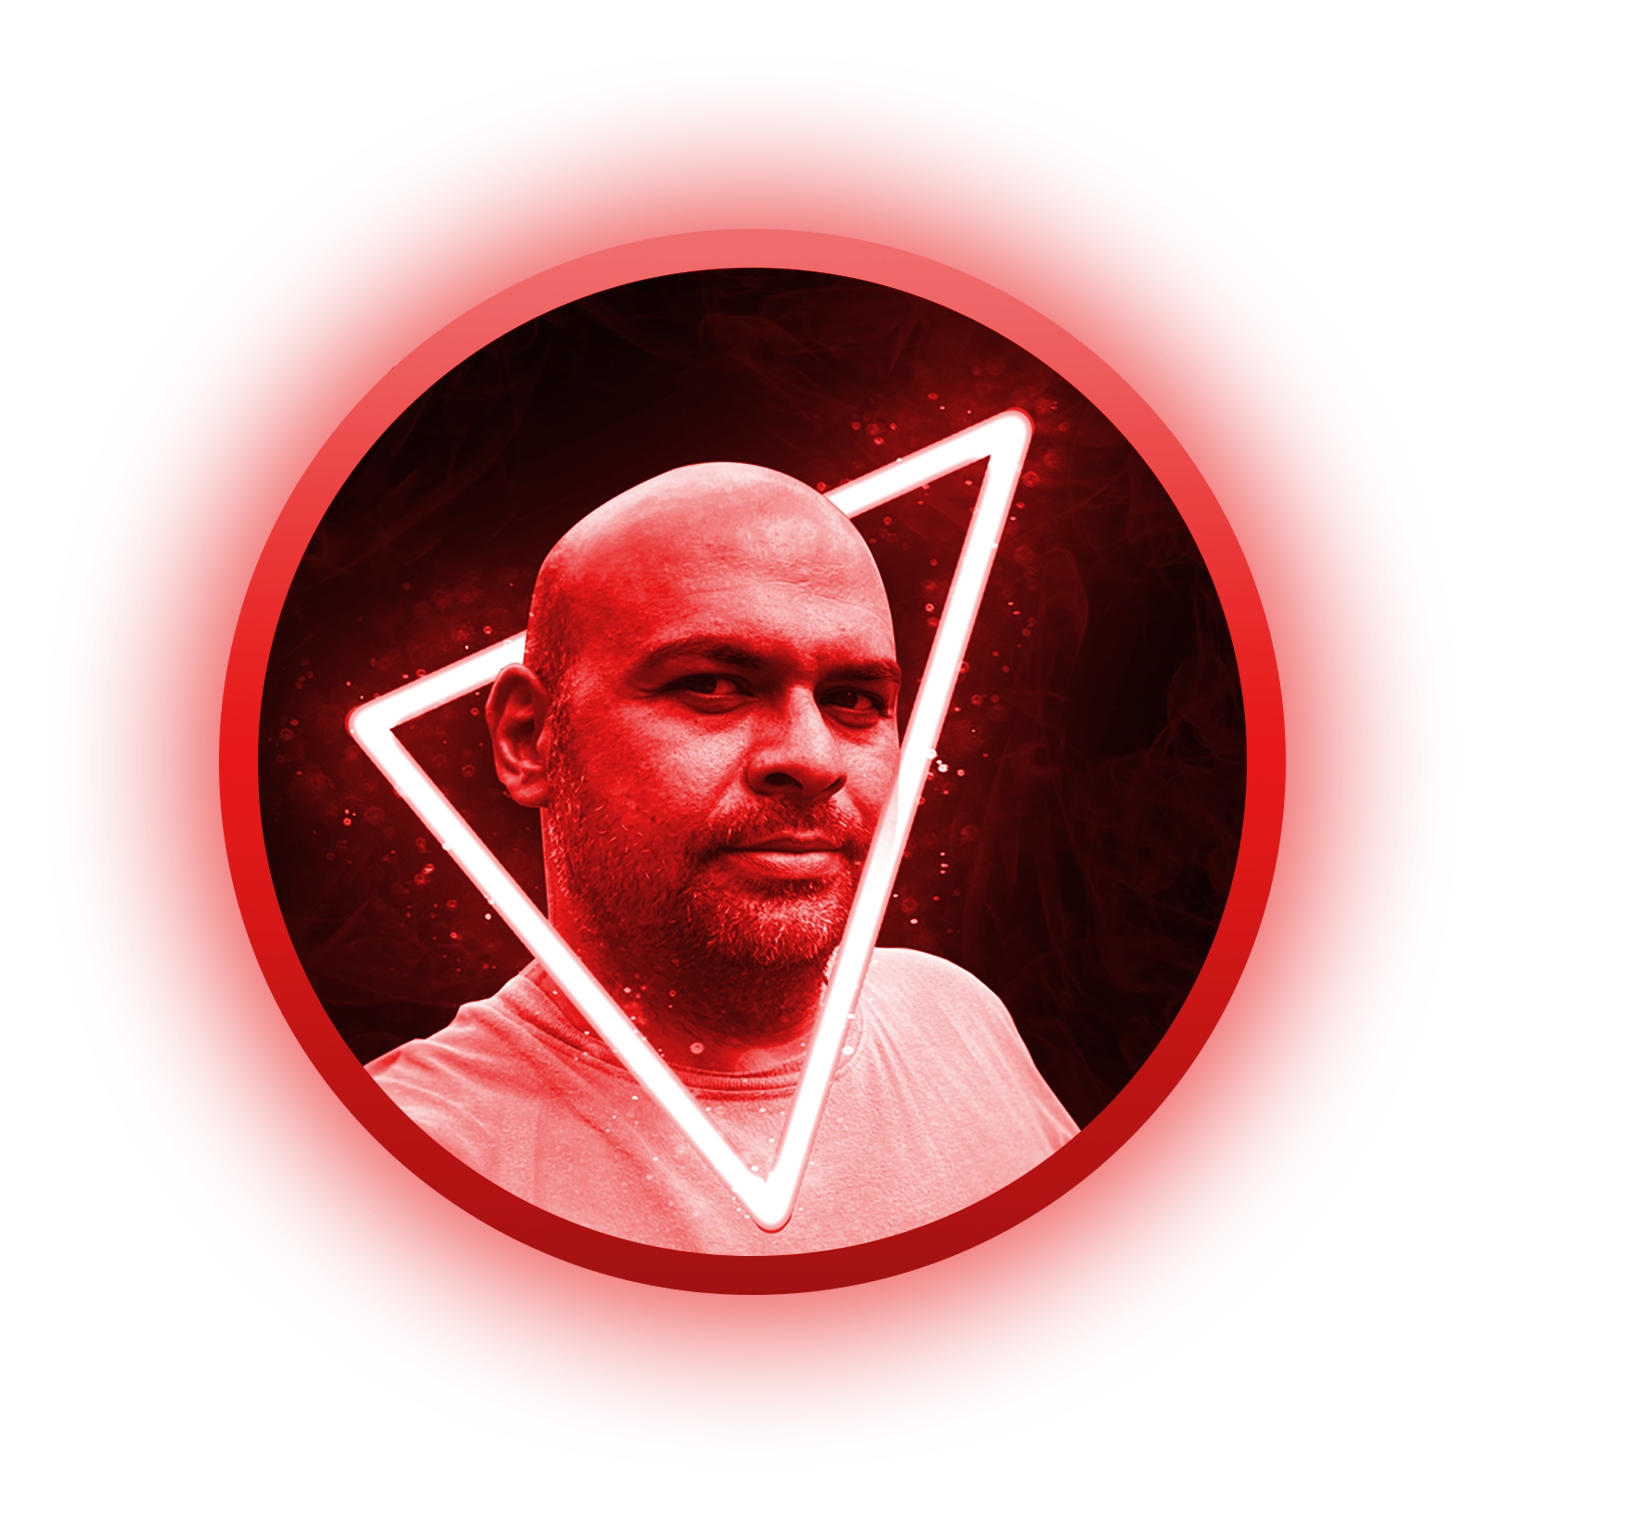
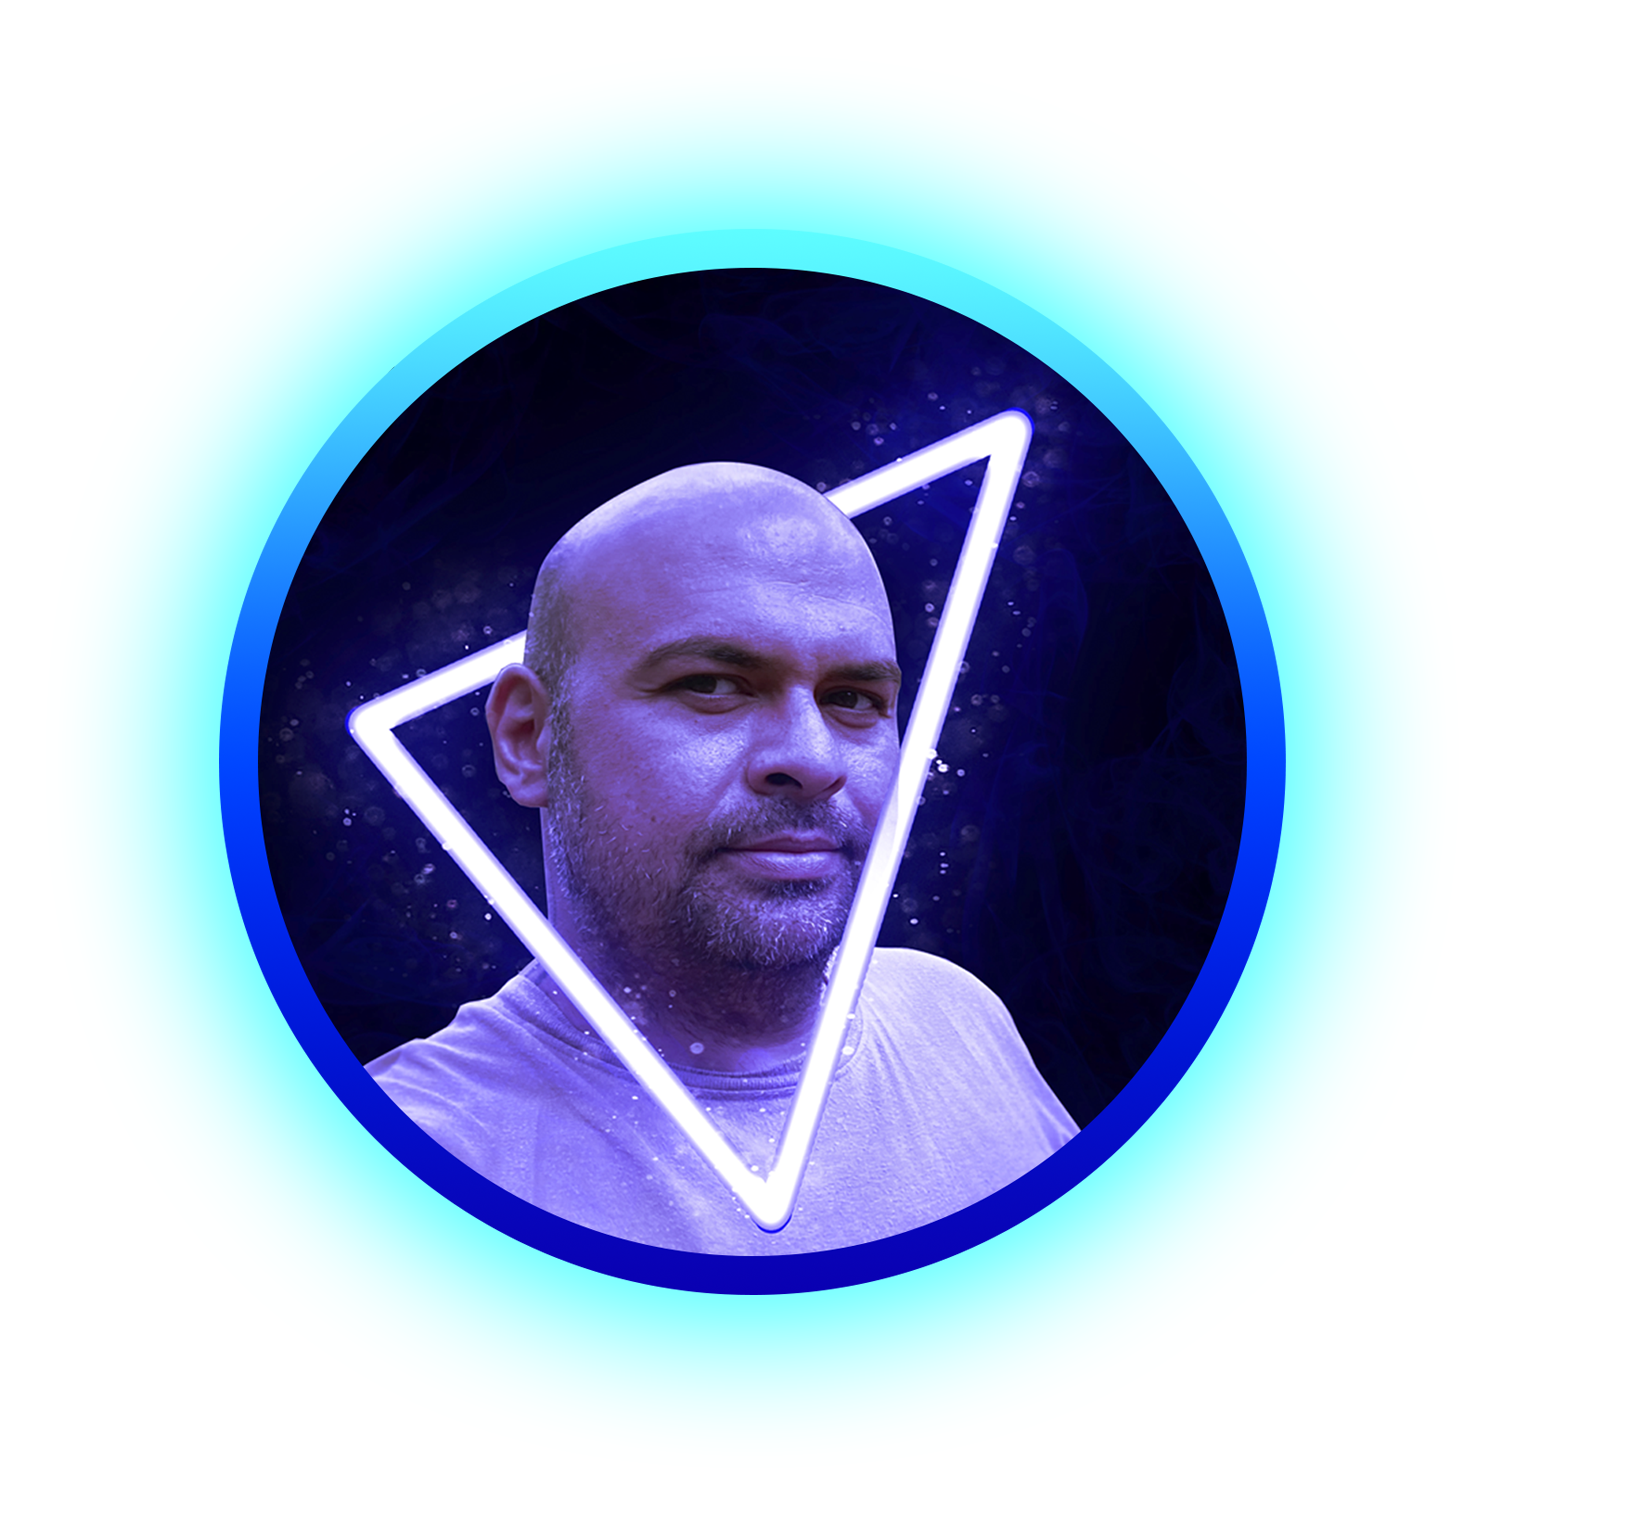
cambio color

diff --git a/style.css b/style.css
@@ -49,14 +49,14 @@ body {
     display: none;
     font-size: 25px;
     cursor: pointer;
-    color: #fff;
+    color: #000000;
 }
 
 
 .navbar a {
     display: inline-block;
     font-size: 25px;
-    color: #fff;
+    color: #ffffff;
     text-decoration: none;
     font-weight: 500;
     margin-left: 35px;
@@ -67,11 +67,11 @@ body {
 }
 
 .navbar a.active {
-    color:rgb(252, 1, 1);
+    color:rgba(6, 248, 228, 1);
 }
 
 .navbar a:hover {
-    color: rgb(252, 1, 1);
+    color: rgb(6, 248, 228, 1);
 }
 
 .home {
@@ -79,7 +79,7 @@ body {
     width: 100%;
     justify-content: space-between;
     height: 100vh;
-    background: url(./img/fondo3\ copia.png);
+    background: url(./img/fondo3.png);
     background-size: cover;
     background-position: center;
     display: flex;
@@ -102,7 +102,7 @@ body {
 }
 
 .home-content h3 span {
-    color: rgb(252, 1, 1);
+    color: rgb(6, 248, 228, 1);
     font-weight: 700;
 }
 
@@ -135,10 +135,10 @@ body {
     width: 40px;
     height: 40px;
     background: transparent;
-    border: 2px solid rgb(252, 1, 1);
+    border: 2px solid rgb(6, 248, 228, 1);
     border-radius: 50%;
     font-size: 20px;
-    color: rgb(252, 1, 1);
+    color: rgb(6, 248, 228, 1);
     text-decoration: none;
     transition: .5s ease;
     opacity: 0;
@@ -148,26 +148,26 @@ body {
 }
 
 .home-sci a:hover {
-    background: rgb(252, 1, 1);
+    background: rgb(6, 248, 228, 1);
     color: #000000;
-    box-shadow: 0 0 20px rgb(252, 1, 1);
+    box-shadow: 0 0 20px rgb(6, 248, 228, 1);
 }
 
 .btn-box {
     display: inline-block;
     padding: 12px 28px;
-    background: rgb(252, 1, 1);
+    background: rgb(6, 248, 228, 1);
     border-radius: 40px;
     font-size: 16px;
-    color: white;
+    color: rgb(0, 0, 0);
     letter-spacing: 1px;
     text-decoration: none;
     font-weight: 600;
     opacity: 0;
     animation: slideTop 1s ease forwards;
     animation-delay: 2s;
-    box-shadow: 0 0 5px rgb(252, 1, 1),
-        0 0 25px rgb(252, 1, 1);
+    box-shadow: 0 0 5px rgb(6, 248, 228, 1),
+        0 0 25px rgb(6, 248, 228, 1);
     margin-top: 30px;
     width: auto;
     max-width: 200px;
@@ -176,9 +176,9 @@ body {
 }
 
 .btn-box:hover {
-    box-shadow: 0 0 5px red,
-        0 0 25px red, 0 0 50px red,
-        0 0 100px red, 0 0 200px red
+    box-shadow: 0 0 5px rgb(6, 248, 228, 1),
+        0 0 25px rgb(6, 248, 228, 1), 0 0 50px rgb(6, 248, 228, 1),
+        0 0 100px rgb(6, 248, 228, 1), 0 0 200px rgb(6, 248, 228, 1)
 }
 
 
@@ -206,7 +206,7 @@ body {
 }
 
 .about-text h2 span {
-    color: rgb(252, 1, 1)
+    color: rgb(6, 248, 228, 1)
 }
 
 .about-text h4 {
@@ -242,7 +242,7 @@ body {
 }
 
 .sub-title span {
-    color: rgb(252, 1, 1);
+    color: rgb(6, 248, 228, 1);
 }
 
 .container {
@@ -264,7 +264,7 @@ body {
     border-right: 10px;
     border-radius: 20px;
     transition: background 0.5s, transform 0.5s;
-    box-shadow: 1px 1px 20px rgb(252, 1, 1), 1px 1px 40px rgb(252, 1, 1);
+    box-shadow: 1px 1px 20px rgb(6, 248, 228, 1), 1px 1px 40px rgb(6, 248, 228, 1);
 }
 
 .services-list div i {
@@ -342,7 +342,7 @@ body {
 .bar img {
     width: 100px;
     height: 100px;
-    border: red solid 6px;
+    border: cyan solid 6px;
     border-radius: 50%;
     padding: 10px;
     background: transparent;
@@ -351,7 +351,7 @@ body {
 .bar i {
     font-size: 65px;
     background: transparent;
-    border: red solid 6px;
+    border: cyan solid 6px;
     border-radius: 50%;
     padding: 10px;
 }
@@ -398,7 +398,7 @@ body {
      display: block;
      transition: transform 0.5s ease-in-out;
      transform-origin: center;
-     border: 3px solid red;
+     border: 3px solid cyan;
  }
 
  .modal {
@@ -418,7 +418,7 @@ body {
      max-width: 90%;
      max-height: 90%;
      border-radius: 10px;
-     border: 5px solid red;
+     border: 5px solid cyan;
      box-shadow: 0px 0px 20px rgba(255, 255, 255, 0.9);
  }
 
@@ -433,7 +433,7 @@ body {
  }
 
  .close:hover {
-     color: red;
+     color: cyan;
  }
 
 .title {
@@ -448,7 +448,7 @@ body {
     margin-top: 20px;
     border-right: 10px;
     border-radius: 20px;
-    box-shadow: 1px 1px 20px rgb(252, 1, 1), 1px 1px 40px rgb(252, 1, 1)
+    box-shadow: 1px 1px 20px rgb(6, 248, 228, 1), 1px 1px 40px rgb(6, 248, 228, 1)
 }
 
 .hidden{
@@ -473,7 +473,7 @@ body {
 }
 
 .contact-text span{
-    color: rgb(252, 1, 1);
+    color: rgb(6, 248, 228, 1);
 }
 
 .contact-text h4{
@@ -502,7 +502,7 @@ body {
 }
 
 .contact-list i{
-    color: rgb(252, 1, 1);
+    color: rgb(6, 248, 228, 1);
     font-size: 20px;
     font-weight: 600;
 
@@ -515,10 +515,10 @@ body {
     width: 40px;
     height: 40px;
     background: transparent;
-    border: 2px solid rgb(252, 1, 1);
+    border: 2px solid rgb(6, 248, 228, 1);
     border-radius: 50%;
     font-size: 20px;
-    color: rgb(252, 1, 1);
+    color: rgb(6, 248, 228, 1);
     text-decoration: none;
     transition: .5s ease;
     opacity: 0;
@@ -528,9 +528,9 @@ body {
 }
 
 .contact-icons a:hover {
-    background: rgb(252, 1, 1);
+    background: rgb(6, 248, 228, 1);
     color: #000000;
-    box-shadow: 0 0 20px rgb(252, 1, 1);
+    box-shadow: 0 0 20px rgb(6, 248, 228, 1);
 }
 
 

diff --git a/index.html b/index.html
@@ -72,7 +72,7 @@
             <h1 class="sub-title">Mis <span>Servicios</span></h1>
             <div class="services-list">
                 <div>
-                    <i class='bx bx-code' style='color:rgb(252, 1, 1)'></i>
+                    <i class='bx bx-code' style='color:rgb(6, 248, 228, 1)'></i>
                     <h2>Offline y Online</h2>
                     <p>Creación de diseños para diferentes formatos:
                     <br><br>
@@ -92,7 +92,7 @@
                 </div>
 
                 <div>
-                    <i class='bx bx-merge' style='color:rgb(252, 1, 1)'></i>
+                    <i class='bx bx-merge' style='color:rgb(6, 248, 228, 1)'></i>
                     <h2>Diseño Web UX/UI</h2>
                     <p>Mi objetivo es crear experiencias de usuario intuitivas, atractivas y funcionales. He estudiado la metodología Design Thinking y he aprendido a gestionar proyectos con Scrum y Kanban. Además de las herramientas que utilizo para el desarrollo front-end, tengo experiencia en Figma, WordPress y Elementor, que utilizo para crear prototipos y diseños visuales adaptados a las necesidades de los usuarios y los objetivos del negocio de manera responsive.</p>
                 </div>
